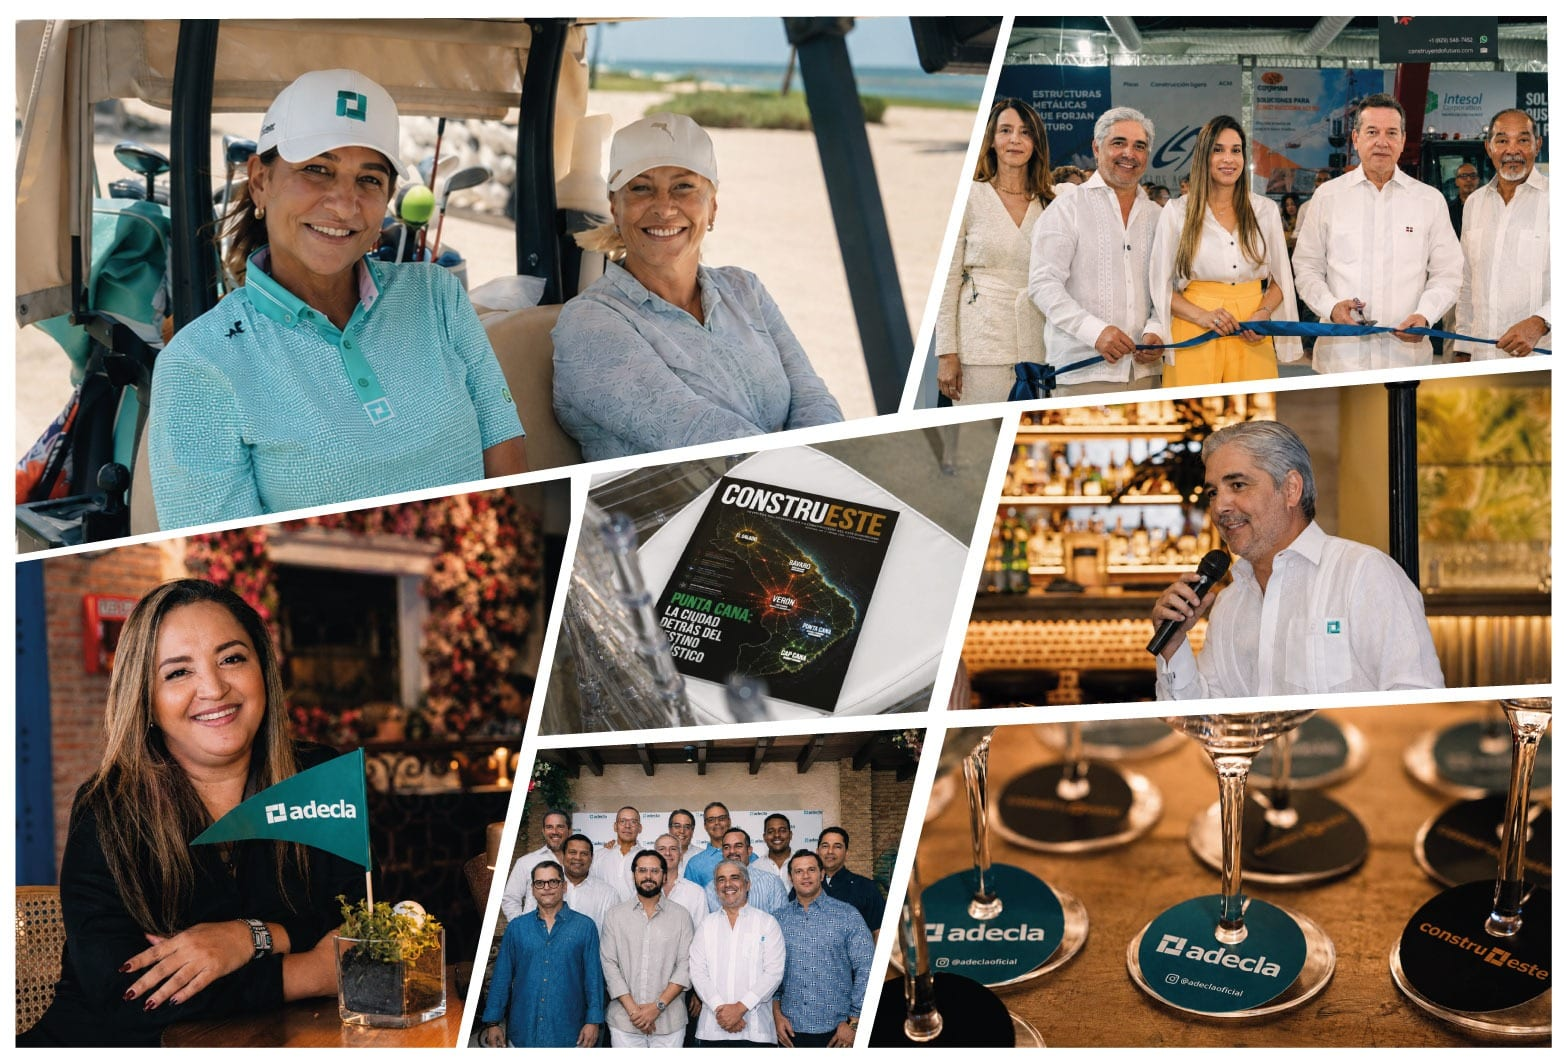
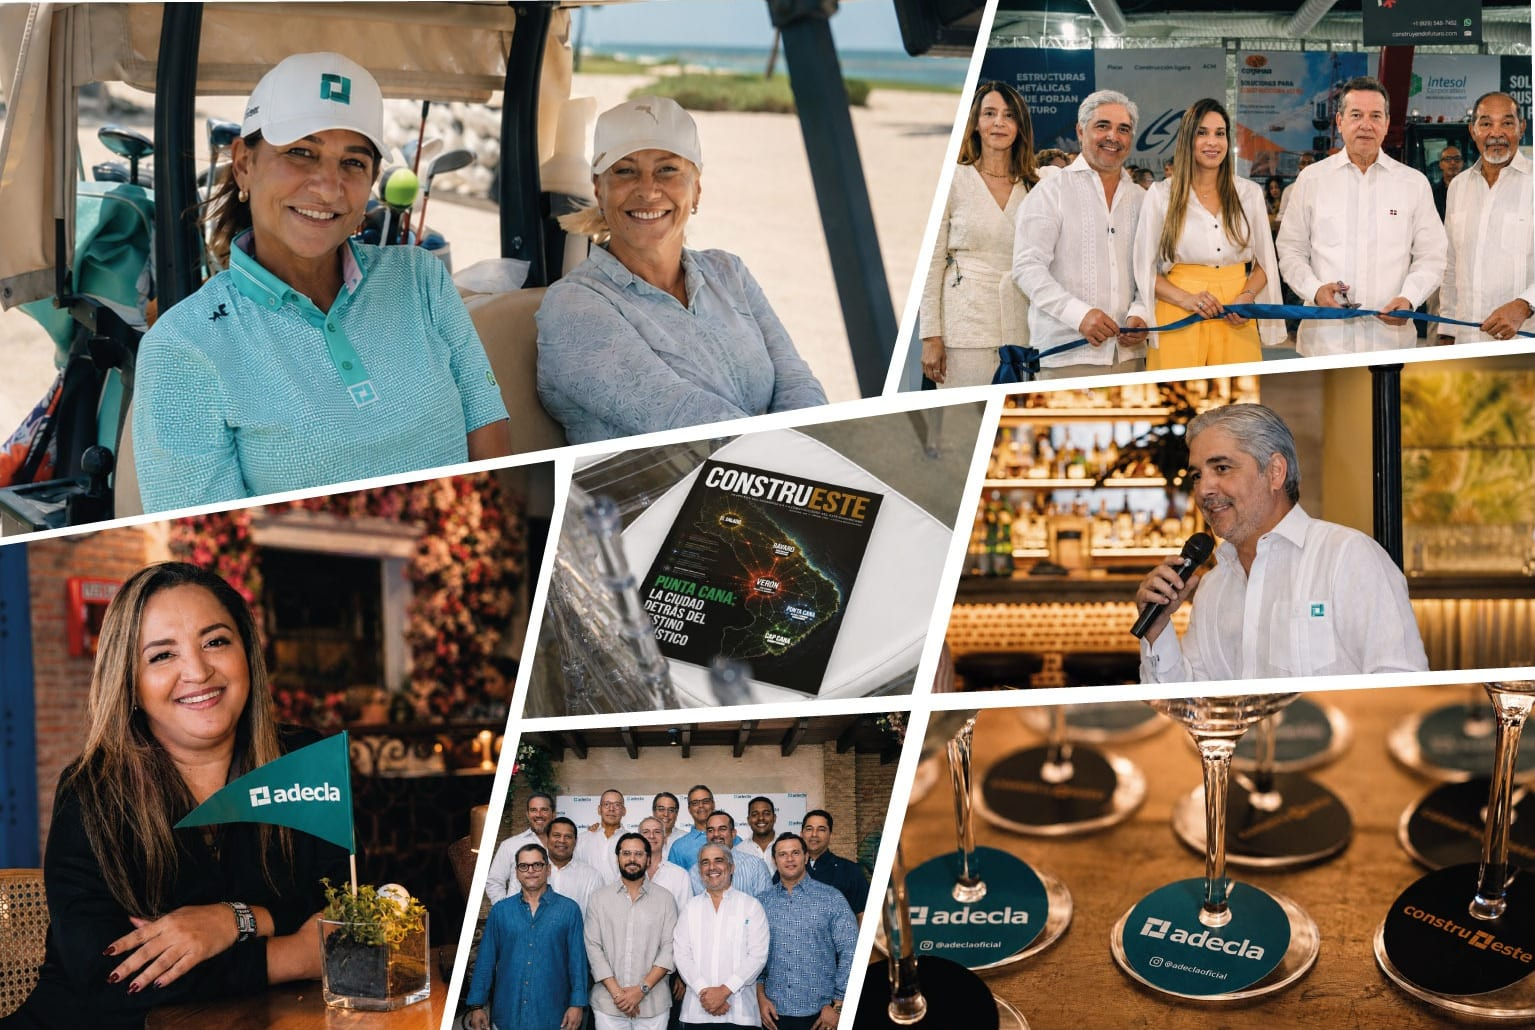
Quitar el marco blanco de la portada
La pieza traia un marco blanco de 15 px por lado dentro del archivo, que
en el hero se leia como un borde pegado alrededor de la imagen.

Se recorta del original, no del archivo ya comprimido. Al medirlo hubo
que tomar el minimo entre varias franjas y no el maximo: por la derecha
los trofeos estan sobre fondo claro y una sola muestra decia 167 px, que
se habria comido media foto.

La caja del hero pasa a la proporcion del archivo recortado para que
siga sin recortar nada.

diff --git a/src/components/events/hero-collage.tsx b/src/components/events/hero-collage.tsx
@@ -7,12 +7,14 @@ import Image from "next/image";
  * Antes eran cuatro fotos sueltas en una cuadrícula, dos de ellas de stock.
  * La pieza ya trae su propia composición en diagonal, así que no lleva el
  * recorte que usaba la cuadrícula: le cortaría el carrito de golf de la
- * esquina. Y la caja respeta la proporción del archivo para que no se
- * pierdan los trofeos de la derecha ni las jugadoras de la izquierda.
+ * esquina. Traía además un marco blanco de 15 px por lado que se recortó:
+ * dentro del hero se leía como un borde pegado. La caja respeta la
+ * proporción del archivo ya recortado para que no se pierdan los trofeos de
+ * la derecha ni las jugadoras de la izquierda.
  */
 export function HeroCollage() {
   return (
-    <div className="relative aspect-[1567/1063] overflow-hidden rounded-sm">
+    <div className="relative aspect-[1535/1030] overflow-hidden rounded-sm">
       <Image
         src="/images/hero-portada.jpg"
         alt="Momentos de ADECLA 2026: el torneo de golf, el corte de cinta de la feria, la revista ConstruEste y los reconocimientos del año"
